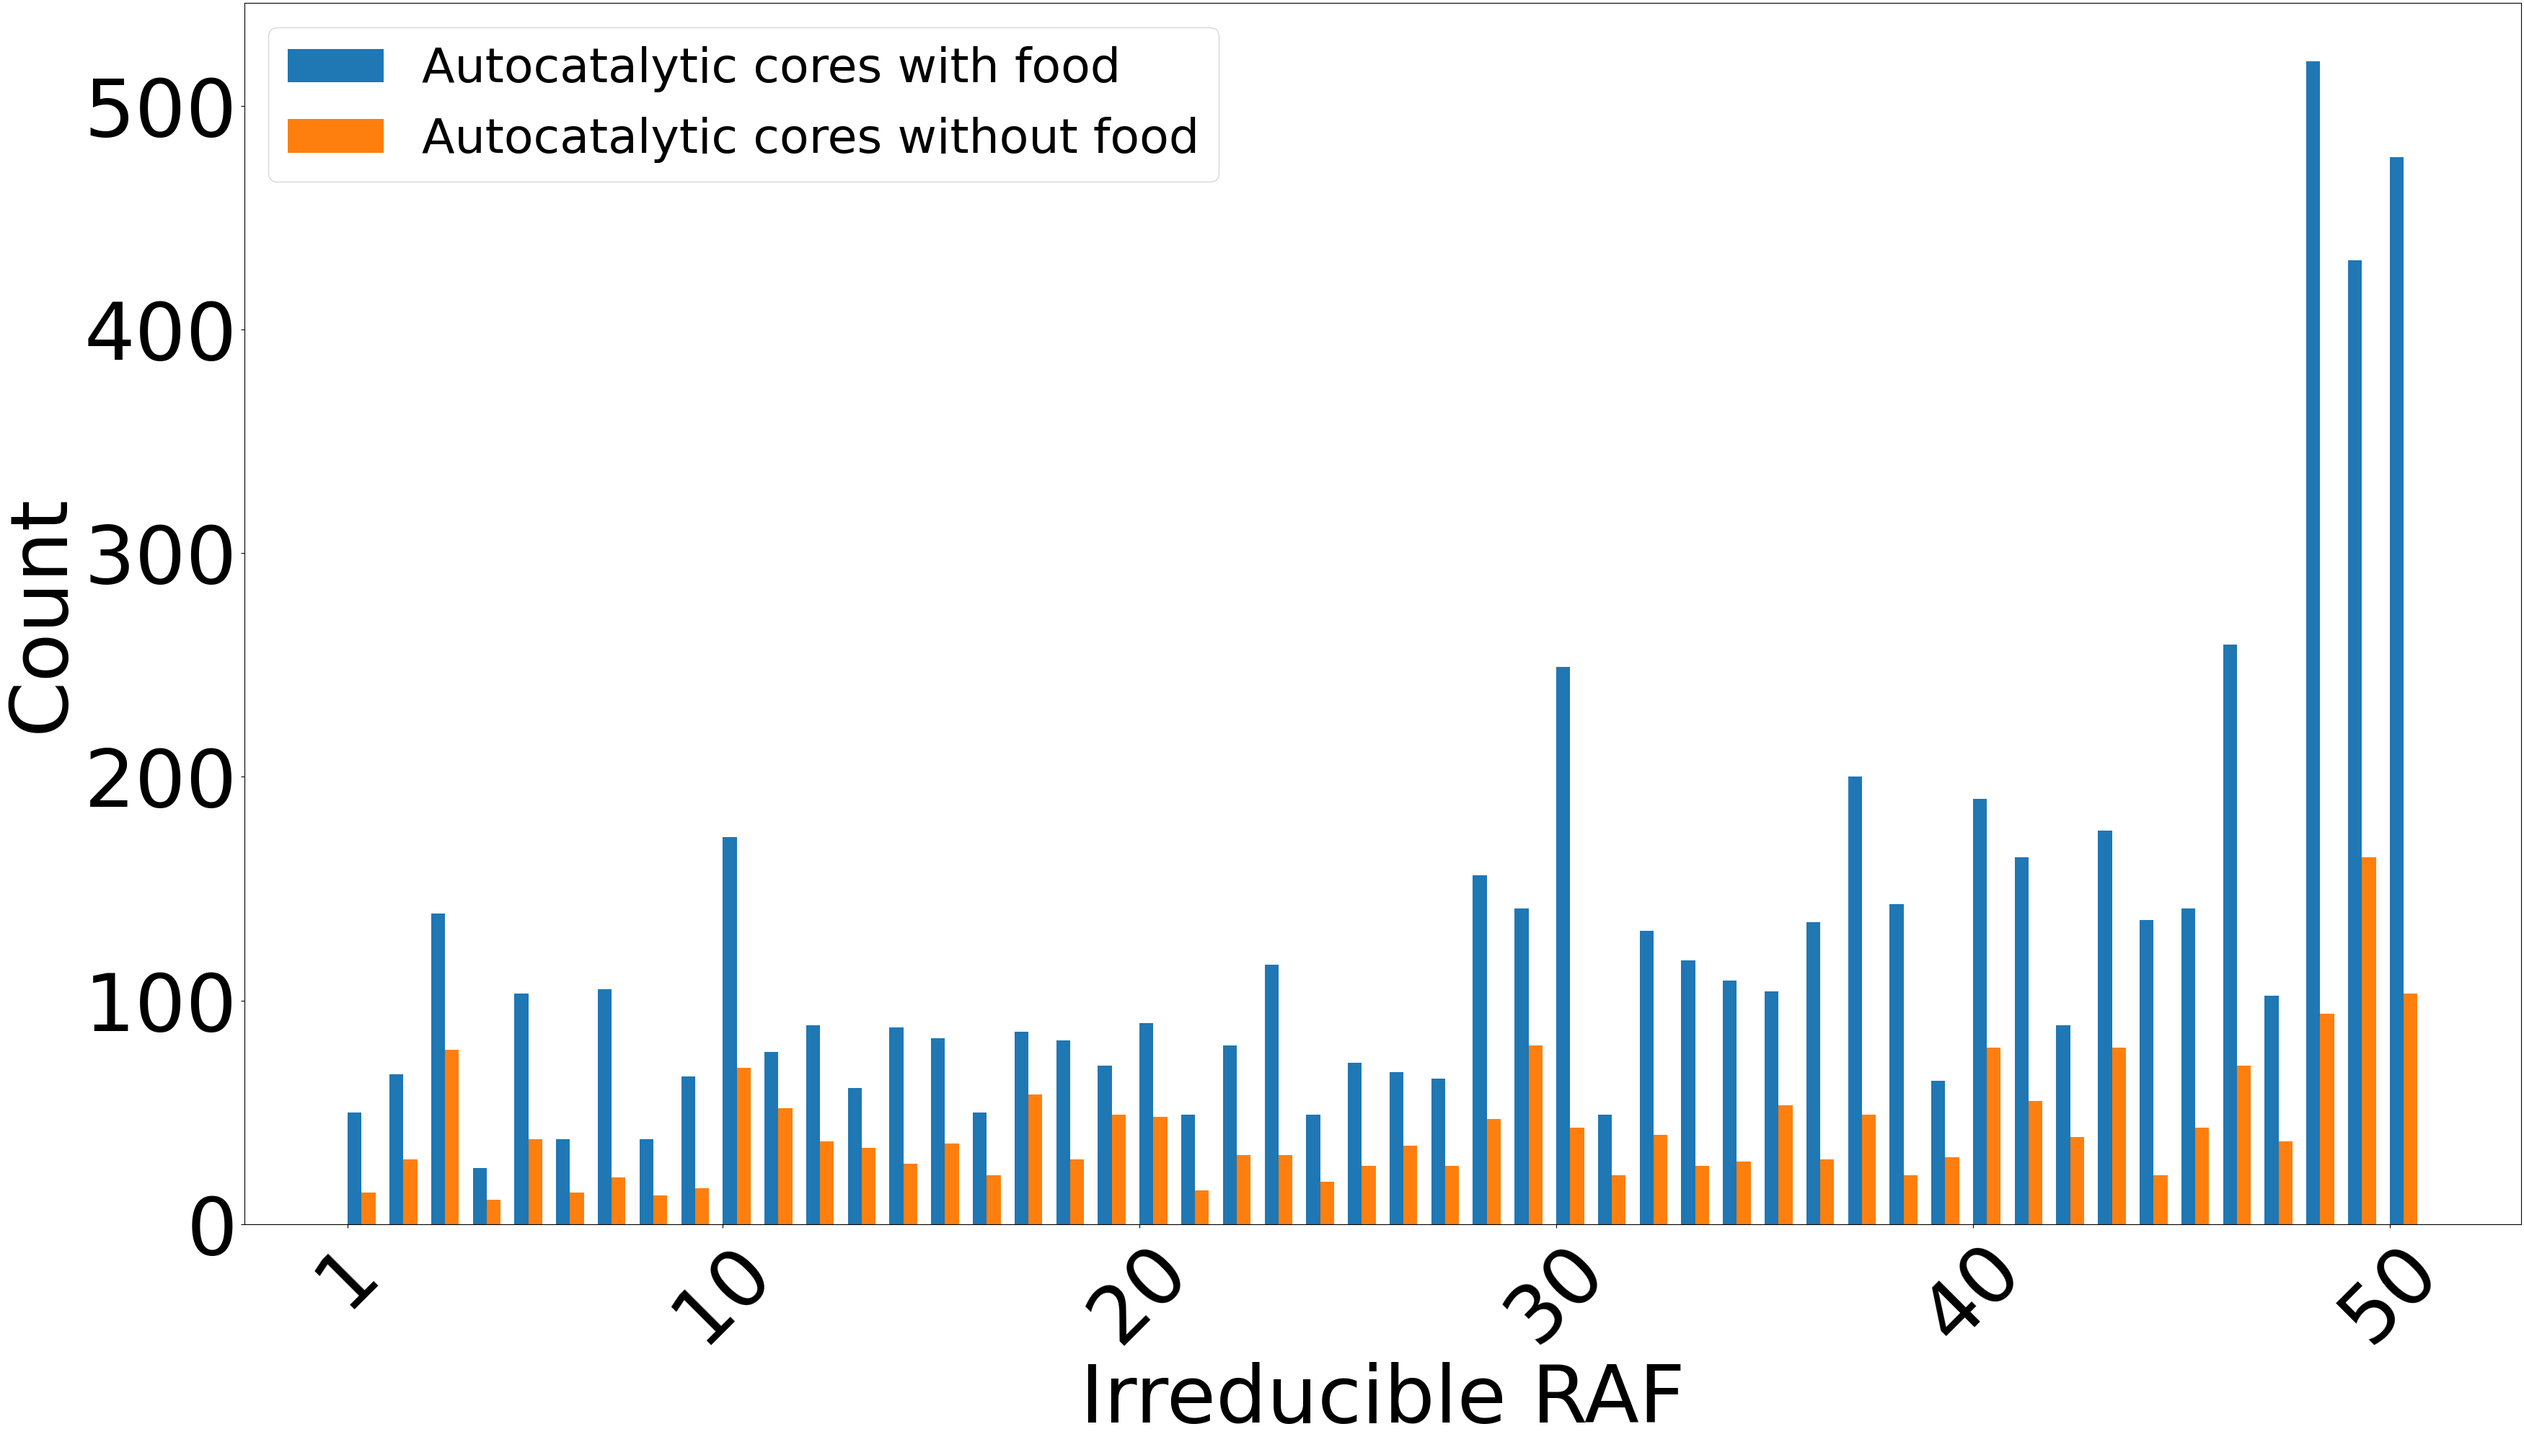
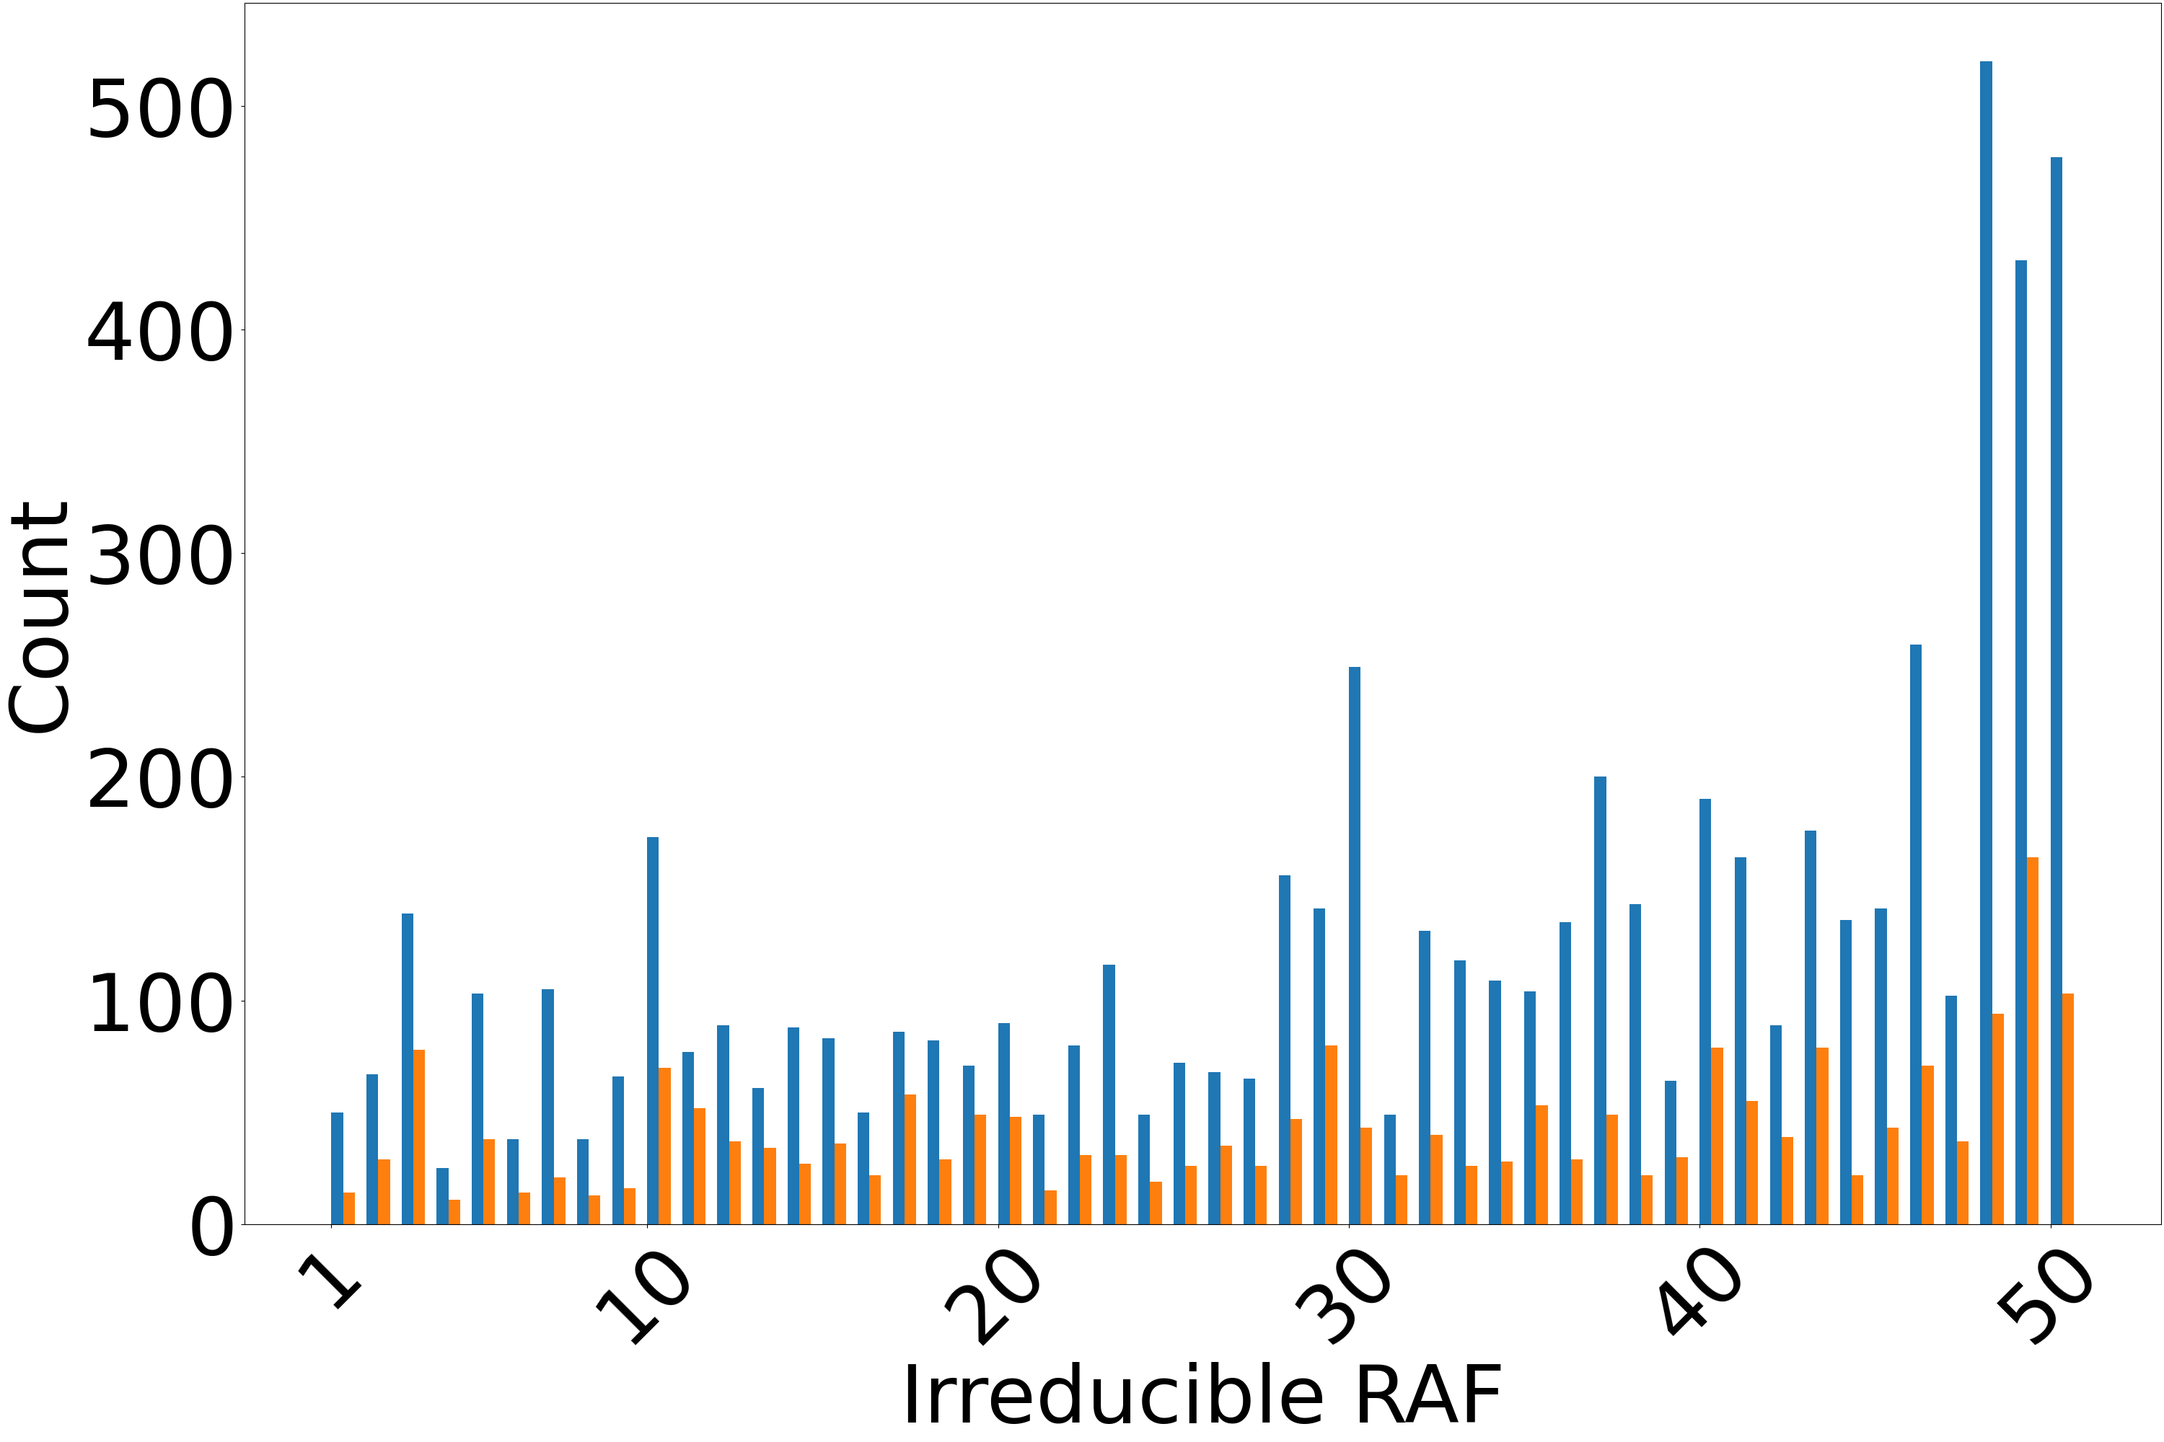
.

diff --git a/RAFCores.tex b/RAFCores.tex
@@ -236,7 +236,7 @@
 
 \section{Introduction}
 
-Wilhelm Ostwald's \PFS{reflections} in 1890 on whether chemical reactions
+Wilhelm Ostwald's reflections in 1890 on whether chemical reactions
 could be catalyzed by one of their own products \cite{Ostwald:90} marked
 the provenance of autocatalysis. In its simplest form, autocatalysis
 appears as an autocatalytic reaction where one participating species drives
@@ -289,8 +289,8 @@ An alternative approach to formalize system-level autocatalysis focused on
 systems of chemical reactions in which every reaction is, in general,
 explicitly catalyzed \cite{lohn_evolving_1998, steel_emergence_2000}. The
 original idea dates back to Kauffman's \cite{kauffman_autocatalytic_1986}
-\PFS{ideas} about how life on Earth might have emerged as a
-metabolism-first event rather than a genetics-first one. Kauffman explored
+ideas about how life on Earth might have emerged as a metabolism-first 
+event rather than a genetics-first one. Kauffman explored
 whether sets of polypeptide complexes, generated via reactions that are
 exclusively catalyzed by members of the set, could lead to collectively
 self-reproducing systems.  Remarkably, under reasonable assumptions and a
@@ -324,23 +324,25 @@ it is shown that any RAF that is itself not entirely a CAF is always
 
 % \textbf{Motivation: minimal autocatalytic structures.}
 
-\PFS{Both, the CRN and the CRS} frameworks have developed parallel concepts
-of `minimal’ autocatalytic sub-systems. Although they \PFS{differ
-  substantially, they share the notion of minimality by considering}
-autocatalytic sub-systems that do not themselves contain \PFS{even smaller}
-autocatalytic sub-system. \PFS{The resulting minimal structures} are termed
+Both the CRN and the CRS frameworks have developed parallel concepts
+of `minimal’ autocatalytic sub-systems. Although they differ
+substantially, they share the notion of minimality by considering
+autocatalytic sub-systems that do not themselves contain even smaller
+autocatalytic sub-systems. The resulting minimal structures are termed
 \emph{autocatalytic cores} in stoichiometric autocatalysis and
-\emph{irreducible} RAFs in RAF theory. \PFS{Computational tools have been
-  developped to identify minimal minimal structures in both frameworks.}
+\emph{irreducible} RAFs in RAF theory. Computational tools have been
+developed to identify minimal structures in both frameworks 
+\cite{kosc_thermodynamic_2025, gagrani_polyhedral_2024, 
+golnik_using_2026, hordijk_algorithms_2026}.
 Developed only recently, \texttt{autogatito} \cite{golnik_using_2026} can
 enumerate autocatalytic cores in large chemical reaction networks, for
 example of metabolic type. A na{\"\i}ve and informal application of
 \texttt{autogatito} to the chemical reaction networks associated with
 irreducible RAFs generated from random instances of the binary polymer
-model \cite{kauffman_autocatalytic_1986} produced an \PFS{unexpected
-  outcome:} each irreducible RAF contains a large number (up to $10000$)
-autocatalytic cores; see Fig.\ref{fig:irrRAFCores}. \PFS{The need to
-  explain this} apparent discrepancy motivates the present contribution, in
+model \cite{kauffman_autocatalytic_1986} produced an unexpected
+outcome: each irreducible RAF contains a large number (up to $1000$)
+autocatalytic cores; see Fig.~\ref{fig:irrRAFCores}. The need to
+explain this apparent discrepancy motivates the present contribution, in
 which we investigate the structural properties of irreducible RAFs.
 
 \begin{figure}[htb]
@@ -1273,8 +1275,8 @@ does, is called an \emph{autocatalytic core}.  Any autocatalytic sub-CRN
 thereby contains an autocatalytic core. The stoichiometric submatrix
 associated to an autocatalytic core admits a reordering of the columns such
 that all diagonal entries are nonpositive while all off-diagonal entries
-are nonnegative \cite{blokhuis_Universal_2020,
-  vassena_unstable_2024,golnik_autocatalytic_2026}. Matrices with
+are nonnegative \cite{blokhuis_Universal_2020, golnik_autocatalytic_2026, 
+vassena_unstable_2024}. Matrices with
 nonnegative off-diagonal entries are called \emph{Metzler matrices} in the
 literature. An autocatalytic core of size $1$, i.e.,
 $|X'|=|R'|=1$, is thus simply an \emph{autocatalytic reaction}
@@ -1403,6 +1405,20 @@ monocatalyzed RAF $\RAF$, is \emph{stoichiometrically autocatalytic}.
   of $S[X(\block)\setminus \tilde{\food},\mathcal{R}(\block)]$ .
 \end{proof}
 
+\section{Two different kinds of examples.}
+\label{sec:examples}
+
+Thm.~\ref{Thm:StrBlockCore} guarantees that each maximal strong block that 
+contains at least one species-vertex that does not represent a food or waste 
+molecule is a stoichiometric autocatalytic sub-CRN. In addition, at least one 
+autocatalytic core does not contain any food molecules. To this end, we constrained 
+the CRNs generated from each irreducible RAF of random instances of the binary 
+polymer model from FIg.~\ref{fig:fig:irrRAFCores} to include only non-food molecules. 
+Importantly, as Fig.~\ref{FoodVsNonFood} shows, these restricted networks still
+exhibit large numbers of autocatalytic cores, which is not attributable to large numbers 
+of maximal strong blocks, as each such irreducible RAF comprises only one 
+maximal strong block that contains at least one non-food, non-waste species-vertex. 
+
 \begin{figure}
 	\centering
 	\begin{minipage}[c]{0.5\textwidth}
@@ -1414,11 +1430,11 @@ monocatalyzed RAF $\RAF$, is \emph{stoichiometrically autocatalytic}.
 		\centering
 		\includegraphics[width=\textwidth]{./Pictures/IrrRAFCoresn5rev2WithVsWithoutFood.png}
 	\end{minipage}%
-	\caption{Autocatalytic cores in irreducible RAFs from two random instances of the binary polymer model with and without food molecules.} 
+	\caption{Autocatalytic cores in different irreducible RAFs from two independent instances 
+	of the binary polymer model (see Fig.~\ref{fig:irrRAFCores} and Sect.~\ref{S-sec:BinPol}) with 
+	and without food molecules.}
+	\label{fig:FoodVsNonFood} 
 \end{figure}
-
-\section{Two different kinds of examples.}
-\label{sec:examples}
 
 \TODO{***}
 
